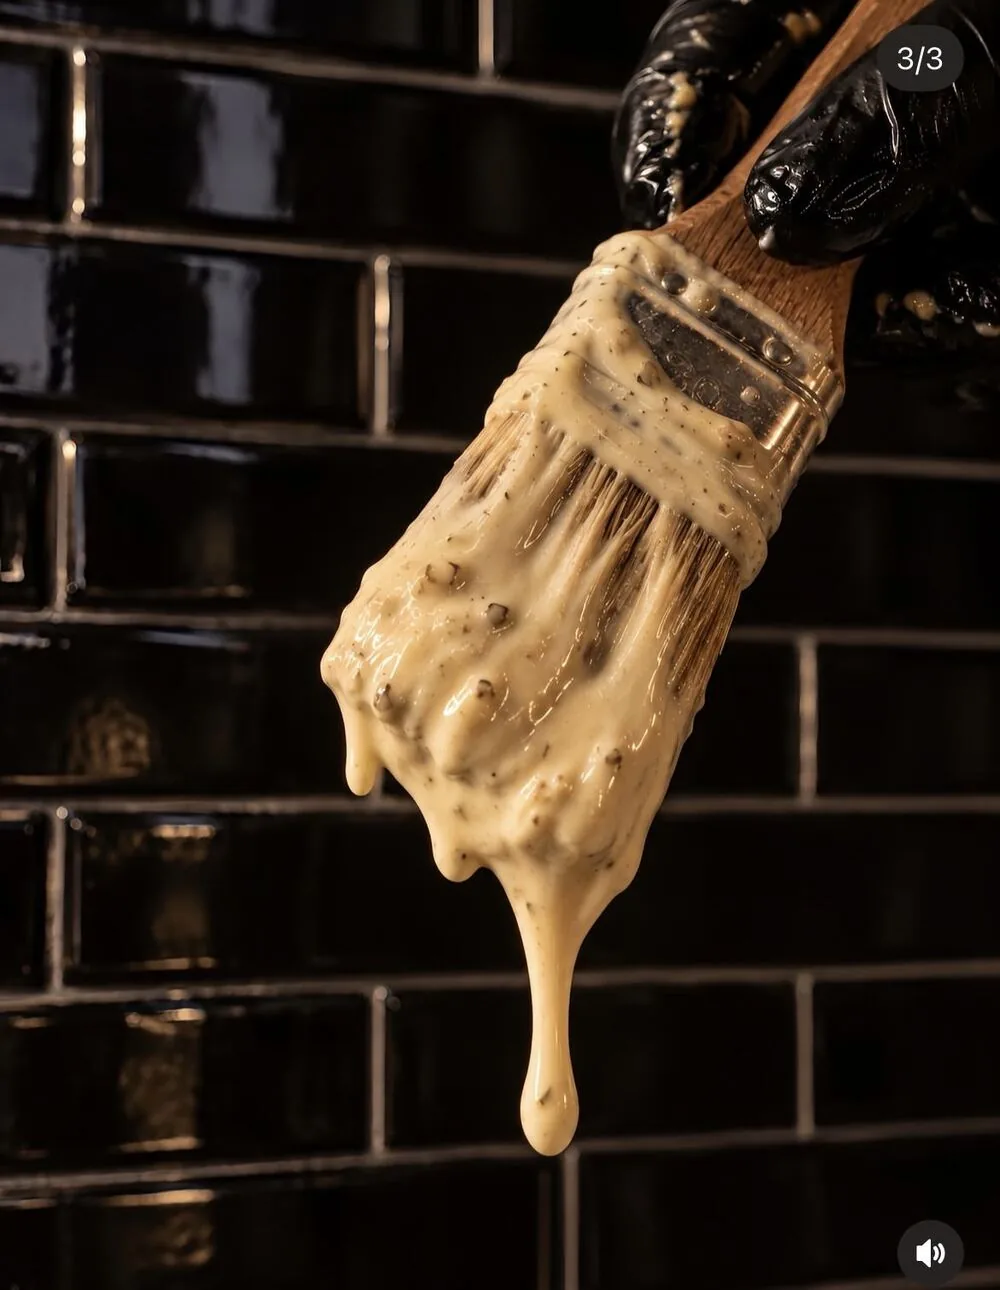
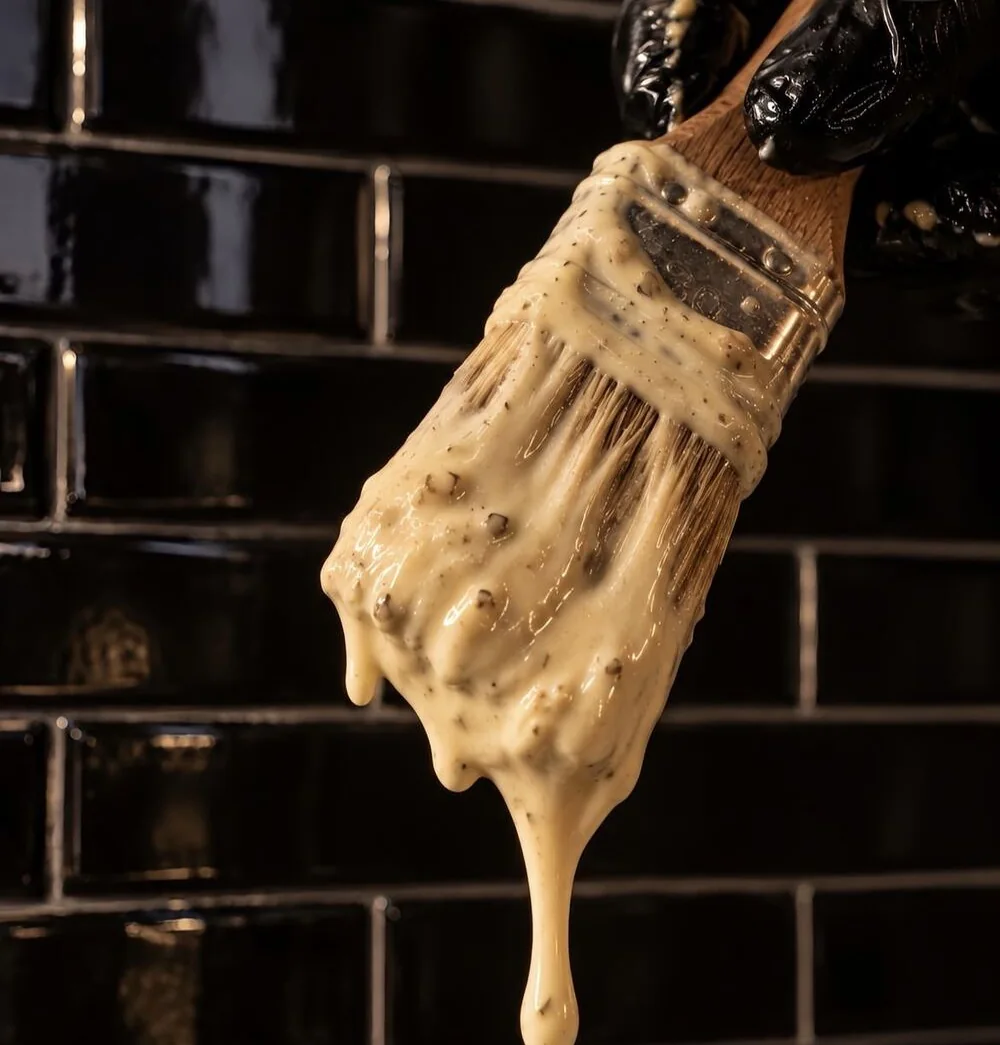
030: Fotos aussortiert, Markenband mit Animation
Gleicher Stand wie wrk/muster/030-null-bock-auf-standard, plus noindex und
Musterhinweis.

diff --git a/030/index.html b/030/index.html
@@ -407,9 +407,116 @@
   .recht .inhalt{ padding:0 20px 20px; color:#b9b9b5; font-size:14px; }
   .recht .inhalt p{ margin:0 0 12px; }
 
+  /* ---------- Markenband mit Animation ---------- */
+  .band{ padding:76px 0 0; overflow:hidden; }
+  .band-innen{
+    display:flex; flex-direction:column; align-items:center; gap:18px;
+    padding:0 var(--gutter) 60px;
+  }
+  .marke-anim{
+    display:flex; align-items:flex-end; gap:clamp(10px,2.4vw,20px);
+    filter:drop-shadow(0 0 0 rgba(224,38,28,0));
+  }
+  .marke-anim .ziffern{ display:flex; }
+  /* jede Ziffer faehrt aus ihrem eigenen Fenster nach oben herein */
+  .marke-anim .fenster{ overflow:hidden; display:block; line-height:0.78; }
+  .marke-anim .fenster i{
+    display:block; font-style:normal;
+    font-family:'Anton',sans-serif;
+    font-size:clamp(66px,16vw,132px);
+    line-height:0.78;
+    letter-spacing:0.01em;
+    transform:translateY(110%);
+  }
+  .marke-anim .fenster:nth-child(2) i{ color:var(--red); }
+  .band.an .fenster i{ animation:herein .78s cubic-bezier(.19,1,.22,1) forwards; }
+  .band.an .fenster:nth-child(1) i{ animation-delay:.05s; }
+  .band.an .fenster:nth-child(2) i{ animation-delay:.15s; }
+  .band.an .fenster:nth-child(3) i{ animation-delay:.25s; }
+  @keyframes herein{ to{ transform:translateY(0); } }
+
+  /* Fernsehturm zeichnet sich selbst */
+  .turm{ height:clamp(84px,20vw,166px); width:auto; overflow:visible; }
+  .turm [class^="t-"]{
+    fill:none;
+    stroke:var(--red);
+    stroke-width:7;
+    stroke-linecap:round;
+    stroke-linejoin:round;
+    stroke-dasharray:100;
+    stroke-dashoffset:100;
+  }
+  .turm .t-kugel{ stroke-width:8; }
+  .band.an .turm [class^="t-"]{
+    animation:zeichnen .62s ease-out forwards;
+  }
+  .band.an .turm .t-fuss{ animation-delay:.42s; }
+  .band.an .turm .t-schaft{ animation-delay:.60s; }
+  .band.an .turm .t-kugel{ animation-delay:.86s; }
+  .band.an .turm .t-antenne{ animation-delay:1.12s; }
+  @keyframes zeichnen{ to{ stroke-dashoffset:0; } }
+
+  /* kurzes Neon-Flackern, danach ruhiges Glimmen */
+  .band.an .marke-anim{
+    animation:flackern .5s steps(1,end) 1.5s 1, glimmen 3.6s ease-in-out 2.0s infinite;
+  }
+  @keyframes flackern{
+    0%,100%{ opacity:1; }
+    18%{ opacity:.25; }
+    34%{ opacity:1; }
+    52%{ opacity:.4; }
+    66%{ opacity:1; }
+  }
+  @keyframes glimmen{
+    0%,100%{ filter:drop-shadow(0 0 6px rgba(224,38,28,0.18)); }
+    50%{ filter:drop-shadow(0 0 22px rgba(224,38,28,0.42)); }
+  }
+  .band-claim{
+    margin:0;
+    color:var(--grey);
+    font-size:clamp(14px,2.6vw,18px);
+    text-align:center;
+    opacity:0;
+  }
+  .band.an .band-claim{ animation:auftauchen .7s ease-out 1.3s forwards; }
+  @keyframes auftauchen{ to{ opacity:1; transform:none; } }
+
+  /* Laufband */
+  .laufband{
+    border-top:1px solid var(--line);
+    border-bottom:1px solid var(--line);
+    padding:16px 0;
+    display:flex;
+    user-select:none;
+  }
+  .spur{
+    display:flex; flex:none;
+    animation:laufen 34s linear infinite;
+  }
+  .spur span{
+    font-family:'Anton',sans-serif;
+    font-size:clamp(20px,4.4vw,34px);
+    letter-spacing:0.04em;
+    text-transform:uppercase;
+    white-space:nowrap;
+    padding-right:28px;
+    color:transparent;
+    -webkit-text-stroke:1px rgba(245,245,243,0.3);
+    text-stroke:1px rgba(245,245,243,0.3);
+  }
+  .spur span em{
+    font-style:normal;
+    color:var(--red);
+    -webkit-text-stroke:0;
+  }
+  @keyframes laufen{ to{ transform:translateX(-50%); } }
+
   @media (prefers-reduced-motion: reduce){
     *{ animation:none !important; transition:none !important; }
     html{ scroll-behavior:auto; }
+    .marke-anim .fenster i{ transform:none; }
+    .turm [class^="t-"]{ stroke-dashoffset:0; }
+    .band-claim{ opacity:1; }
   }
 </style>
 </head>
@@ -503,7 +610,7 @@
         </div>
       </div>
       <div class="bildrahmen">
-        <img src="bilder/doener-kaese.webp" width="1000" height="1324" loading="lazy" decoding="async"
+        <img src="bilder/doener-kaese.webp" width="1000" height="1059" loading="lazy" decoding="async"
              alt="Döner mit geschmolzenem Käse, frisch aus der Hand gereicht">
         <span class="fig-cap">Handwerk, kein Fast Food</span>
       </div>
@@ -532,9 +639,37 @@
         <span class="fig-cap">Das halbe Hähnchen</span>
       </div>
       <div class="kachel essen-klein">
-        <img src="bilder/sauce-pinsel.webp" width="1000" height="1290" loading="lazy" decoding="async"
+        <img src="bilder/sauce-pinsel.webp" width="1000" height="1045" loading="lazy" decoding="async"
              alt="Hausgemachte Sauce wird mit dem Pinsel aufgetragen">
         <span class="fig-cap">Die Sauce macht's</span>
+      </div>
+    </div>
+  </section>
+
+  <!-- MARKENBAND -->
+  <section class="band" id="marke">
+    <div class="band-innen">
+      <div class="marke-anim">
+        <span class="ziffern">
+          <span class="fenster"><i>0</i></span>
+          <span class="fenster"><i>3</i></span>
+          <span class="fenster"><i>0</i></span>
+        </span>
+        <svg class="turm" viewBox="0 0 120 400" role="img"
+             aria-label="Das 030-Zeichen mit dem Berliner Fernsehturm">
+          <path class="t-fuss"    pathLength="100" d="M30 392 L44 352 L76 352 L90 392" />
+          <path class="t-schaft"  pathLength="100" d="M46 352 L54 192 M74 352 L66 192" />
+          <circle class="t-kugel" pathLength="100" cx="60" cy="160" r="30" />
+          <path class="t-antenne" pathLength="100" d="M60 130 L60 14" />
+        </svg>
+      </div>
+      <p class="band-claim">Berliner Spirit. Osnabrücker Boden. Seit dem 2. November am Neumarkt.</p>
+    </div>
+
+    <div class="laufband" aria-hidden="true">
+      <div class="spur">
+        <span>Null Bock auf Standard <em>&middot;</em> 100% Helal <em>&middot;</em> Neumarkt 5 <em>&middot;</em> Täglich ab 11 Uhr <em>&middot;</em> Berliner Saucen <em>&middot;</em> Halbes Hähnchen <em>&middot;</em>&nbsp;</span>
+        <span>Null Bock auf Standard <em>&middot;</em> 100% Helal <em>&middot;</em> Neumarkt 5 <em>&middot;</em> Täglich ab 11 Uhr <em>&middot;</em> Berliner Saucen <em>&middot;</em> Halbes Hähnchen <em>&middot;</em>&nbsp;</span>
       </div>
     </div>
   </section>
@@ -556,7 +691,7 @@
         <span class="fig-cap">2. November</span>
       </div>
       <div class="kachel">
-        <img src="bilder/laden-innen.webp" width="360" height="640" loading="lazy" decoding="async"
+        <img src="bilder/laden-innen.webp" width="360" height="493" loading="lazy" decoding="async"
              alt="Blick in den Innenraum mit Wandbildern">
         <span class="fig-cap">Drinnen</span>
       </div>
@@ -579,22 +714,13 @@
     </div>
     <div class="ig-grid">
       <a class="ig-kachel" href="https://www.instagram.com/030.os/" target="_blank" rel="noopener">
-        <img src="bilder/doener-hand.webp" width="480" height="640" loading="lazy" decoding="async" alt="Döner im Fladenbrot">
-      </a>
-      <a class="ig-kachel" href="https://www.instagram.com/030.os/" target="_blank" rel="noopener">
-        <img src="bilder/box-wandbild.webp" width="480" height="640" loading="lazy" decoding="async" alt="Box mit Pommes und Fleisch vor dem Wandbild">
+        <img src="bilder/doener-hand.webp" width="480" height="429" loading="lazy" decoding="async" alt="Döner im Fladenbrot">
       </a>
       <a class="ig-kachel" href="https://www.instagram.com/030.os/" target="_blank" rel="noopener">
         <img src="bilder/pommes-haehnchen.webp" width="481" height="640" loading="lazy" decoding="async" alt="Pommes mit Hähnchenstücken in der Box">
       </a>
       <a class="ig-kachel" href="https://www.instagram.com/030.os/" target="_blank" rel="noopener">
-        <img src="bilder/teller-haehnchen.webp" width="360" height="640" loading="lazy" decoding="async" alt="Halbes Hähnchen mit Pommes auf dem Teller">
-      </a>
-      <a class="ig-kachel" href="https://www.instagram.com/030.os/" target="_blank" rel="noopener">
-        <img src="bilder/aktion-ps5.webp" width="481" height="640" loading="lazy" decoding="async" alt="Gewinnspiel-Aktion im Laden">
-      </a>
-      <a class="ig-kachel" href="https://www.instagram.com/030.os/" target="_blank" rel="noopener">
-        <img src="bilder/haehnchen-grill.webp" width="480" height="640" loading="lazy" decoding="async" alt="Hähnchen auf dem Grill">
+        <img src="bilder/teller-haehnchen.webp" width="360" height="372" loading="lazy" decoding="async" alt="Halbes Hähnchen mit Pommes auf dem Tablett">
       </a>
     </div>
     <div style="text-align:center; margin-top:36px;">
@@ -843,6 +969,26 @@
 
   zeichnen();
   setInterval(zeichnen, 30000);
+})();
+
+(function(){
+  // Markenband erst animieren, wenn es im Bild ist
+  var band = document.getElementById('marke');
+  if (!band) return;
+  var ruhig = window.matchMedia && window.matchMedia('(prefers-reduced-motion: reduce)').matches;
+  if (ruhig || !('IntersectionObserver' in window)){
+    band.classList.add('an');
+    return;
+  }
+  var beobachter = new IntersectionObserver(function(eintraege){
+    eintraege.forEach(function(e){
+      if (e.isIntersecting){
+        band.classList.add('an');
+        beobachter.disconnect();
+      }
+    });
+  }, { threshold: 0.4 });
+  beobachter.observe(band);
 })();
 </script>
 </body>
